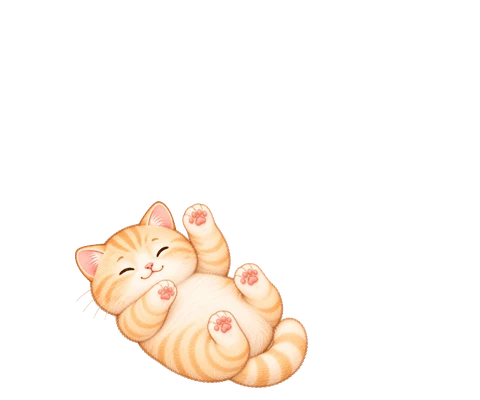
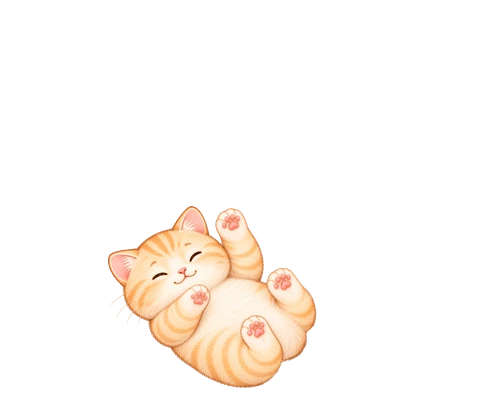
Add tail swish for sheleg and dvash (belly1)
Claude-Session: https://claude.ai/code/session_01E7v64VRdhvH8oCgXhRmXMK

Changed region(s): [[0.1562, 0.48, 0.6562, 0.99]]

diff --git a/index.html b/index.html
@@ -885,7 +885,11 @@
   // process_cat_tail's placement math, not guessed: the closest point between the two cutouts in
   // their shared raw canvas, converted to % of the 480x400 pose canvas (its log line prints it ready
   // to paste here). Add a '<cat>-<pose>' entry as each cat's tail is extracted.
-  const CAT_TAILS = { 'tapuz-belly1': { origin: '60.5% 88.2%' } };
+  const CAT_TAILS = {
+    'tapuz-belly1': { origin: '60.5% 88.2%' },
+    'sheleg-belly1': { origin: '59.0% 91.1%' },
+    'dvash-belly1': { origin: '65.3% 81.3%' },
+  };
   function catLayer(v, it) {
     const pose = v.pose || it.pose;
     const o = (it.offset && it.offset[v.cat]) || { x: 0, y: 0, s: 1 };
